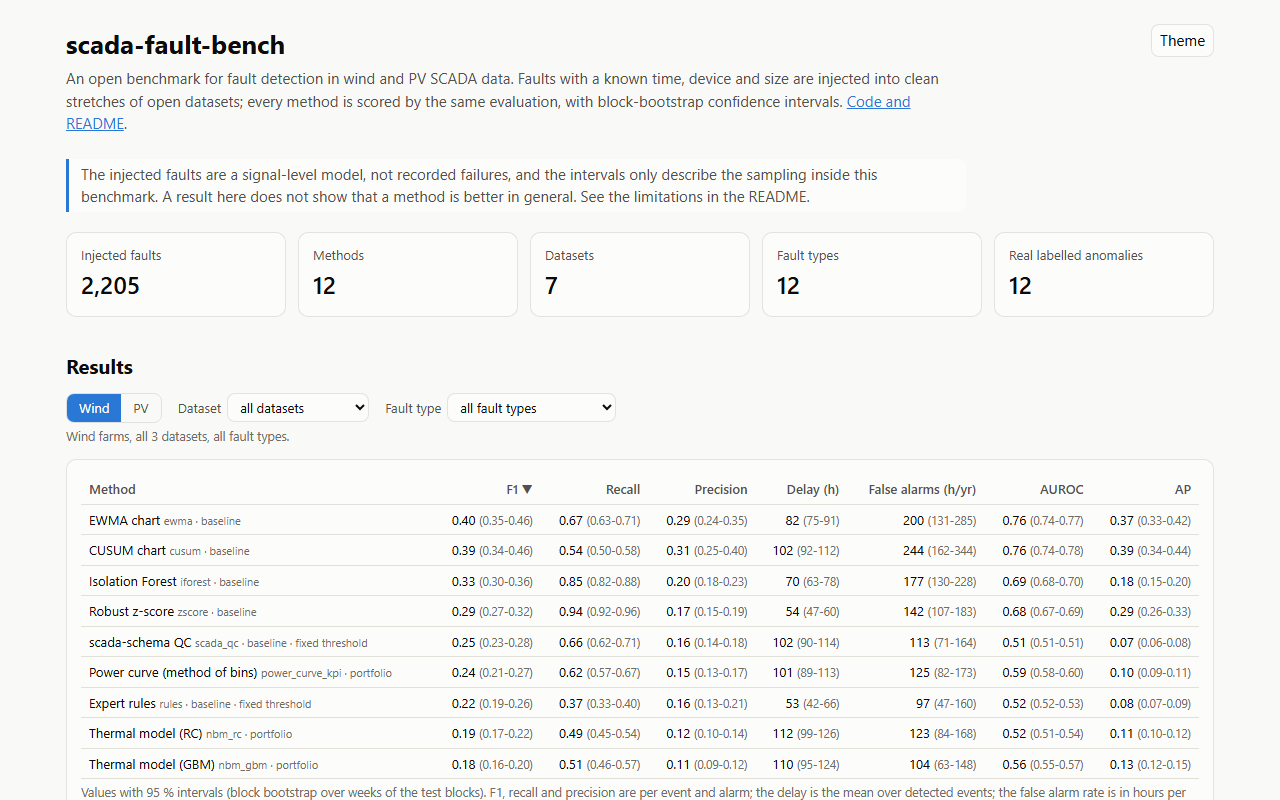
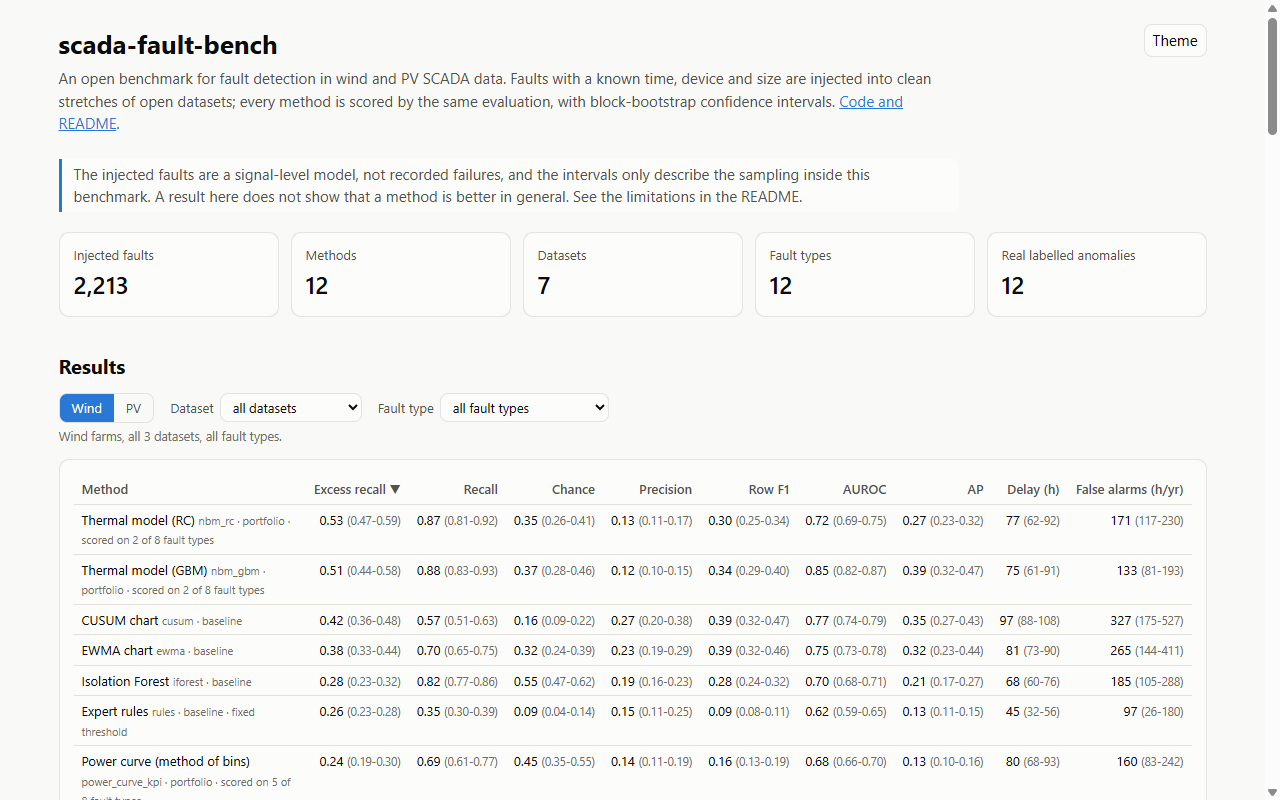
Update the scada-schema, scada-fault-bench and bess-reporting-kit cards after the review fixes

diff --git a/index.html b/index.html
@@ -797,8 +797,8 @@ td + td { white-space: nowrap; }
       <div class="body">
         <div class="meta"><span class="group g-tools">Open-source tools</span><span class="badge">Own method</span></div>
         <h3><a href="https://github.com/kwwaleszczynski-del/scada-schema">scada-schema: an open data standard for wind and PV SCADA</a></h3>
-        <p class="summary">One table layout (names, units, sign and angle conventions, time zone and interval, device types) for wind turbines and PV plants, with loaders for five open datasets, 15 quality-control checks with an HTML report, IEC 61400-26 state mapping and converters to wind-up, OpenOA and pvlib with parity tests. Your own exports can be imported without code from a YAML mapping.</p>
-        <p class="highlight">11 tables from 5 open sources (3.45 million rows, 55 devices) load from the original files and all 11 pass the schema; the loader finds the hectowatt-to-watt switch in NREL PVDAQ system 34 (a factor-98 step on 2018-08-05) from the data alone.</p>
+        <p class="summary">One table layout (names, units, sign and angle conventions, time zone and interval, device types) for wind turbines and PV plants, with loaders for open datasets from six sources, 15 quality-control checks with an HTML report, IEC 61400-26 state mapping and converters to wind-up, OpenOA and pvlib with parity tests. Your own exports can be imported without code from a YAML mapping.</p>
+        <p class="highlight">11 tables from 6 open sources (3.66 million rows, 57 devices) load from the original files and all 11 pass the schema; the loader finds the hectowatt-to-watt switch in NREL PVDAQ system 34 (a factor-98 step on 2018-08-05) from the data alone.</p>
         <ul class="tags"><li>SCADA schema</li><li>IEC 61400-26</li><li>wind-up / OpenOA / pvlib</li></ul>
         <div class="links"><a class="btn" href="https://github.com/kwwaleszczynski-del/scada-schema">Code</a><a class="btn primary" href="https://kwwaleszczynski-del.github.io/scada-schema/">Live page &#8599;</a></div>
       </div>
@@ -811,7 +811,7 @@ td + td { white-space: nowrap; }
         <div class="meta"><span class="group g-tools">Open-source tools</span><span class="badge">Own method</span></div>
         <h3><a href="https://github.com/kwwaleszczynski-del/bess-reporting-kit">BESS reporting kit: technical and financial reports and sales-strategy comparison</a></h3>
         <p class="summary">One input schema and one command line for grid battery reporting: a technical report (availability, SoC-corrected round-trip efficiency, cycles, state of health, warranty and LTSA compliance), a financial report with a budget-to-actual bridge, and a common evaluation of four ways to sell the energy, all planned as-of on public PSE prices. Reports come out as HTML and Excel; the library calls the portfolio&#x27;s battery projects instead of copying them.</p>
-        <p class="highlight">As-of day-ahead arbitrage keeps 82 % of its perfect-foresight ceiling and the revenue stack 91 %; on a 200 MW Australian battery the SoC-corrected round-trip efficiency is 82.9 % against an illustrative 85 % guarantee, met in 2 of 12 months.</p>
+        <p class="highlight">As-of day-ahead arbitrage keeps 82 % of its perfect-foresight ceiling; the revenue stack keeps 91 % only because it offers nearly all balancing capacity every hour, and at fleet scale (2,000 MW) its margin falls to 10-21 % of the lone battery&#x27;s. A 200 MW Australian battery earned 99 % of an as-of benchmark with its own limits; its SoC-corrected round-trip efficiency is 82.9 % against an illustrative 85 % guarantee, met in 2 of 12 months.</p>
         <ul class="tags"><li>technical + financial reports</li><li>sales strategies</li><li>PSE / AEMO</li></ul>
         <div class="links"><a class="btn" href="https://github.com/kwwaleszczynski-del/bess-reporting-kit">Code</a><a class="btn primary" href="https://kwwaleszczynski-del.github.io/bess-reporting-kit/">Live page &#8599;</a></div>
       </div>
@@ -849,8 +849,8 @@ td + td { white-space: nowrap; }
       <div class="body">
         <div class="meta"><span class="group g-tools">Open-source tools</span><span class="badge">Own method</span></div>
         <h3><a href="https://github.com/kwwaleszczynski-del/scada-fault-bench">scada-fault-bench: a benchmark for fault detection in wind and PV SCADA</a></h3>
-        <p class="summary">Faults with known time, device and size (12 types, 5 sizes) are injected into clean stretches of open wind and PV data in the scada-schema format; any detector is scored by one evaluation with block-bootstrap intervals. A second part scores the same 12 methods on real labelled faults of CARE to Compare.</p>
-        <p class="highlight">On 2,205 injected faults in 7 open datasets no method wins: the best F1 is 0.40 on wind (EWMA) and 0.53 on PV (Isolation Forest), with several methods inside the same interval; on the 12 real CARE faults recall ranges from 0.08 to 0.75, too few to rank methods.</p>
+        <p class="summary">Faults with known time, device and size (12 types, 5 sizes) are injected into open wind and PV data in the scada-schema format; any detector is scored by one evaluation that reports recall next to its chance level (a placebo on the untouched block) with block-bootstrap intervals. A second part scores the same methods on real labelled faults of CARE to Compare.</p>
+        <p class="highlight">On 2,213 injected faults in 7 open datasets every method detects more than chance, but much of the raw recall is coincidence: a z-score reaches 0.91 on wind with 0.68 by chance. The best excess recall across all fault types is 0.42 on wind (CUSUM) and 0.37 on PV (Isolation Forest); on the 12 real CARE faults no method is distinguishable from chance.</p>
         <ul class="tags"><li>fault detection</li><li>benchmark</li><li>CARE to Compare</li><li>scada-schema</li></ul>
         <div class="links"><a class="btn" href="https://github.com/kwwaleszczynski-del/scada-fault-bench">Code</a><a class="btn primary" href="https://kwwaleszczynski-del.github.io/scada-fault-bench/">Live page &#8599;</a></div>
       </div>
@@ -863,7 +863,7 @@ td + td { white-space: nowrap; }
       <dt>Stack</dt><dd>Python · pandas · SciPy / HiGHS MILP · pvlib · PyWake · PyTorch · NumPyro / JAX · Plotly · Grafana · InfluxDB 2 / Flux · GitHub Actions · pytest</dd>
       <dt>Open data</dt><dd>PSE (Polish TSO) open API · AEMO NEM · NREL PVDAQ · Kelmarsh wind farm SCADA (Cubico, CC BY 4.0) · PVGIS · Open-Meteo / ERA5 · Met Office sunshine records · Zenodo LFP cell ageing data · IMGW-PIB synoptic stations · CERRA (Copernicus) · IEEE RTS-79 · CARE to Compare benchmark (CC BY-SA 4.0) · FlyWire connectome v783 (CC BY 4.0)</dd>
     </dl>
-    <p>All projects are personal work on public datasets, credited in each repository. Updated 06 Nov 2026.</p>
+    <p>All projects are personal work on public datasets, credited in each repository. Updated 12 Nov 2026.</p>
   </footer>
 </div>
 <script>
